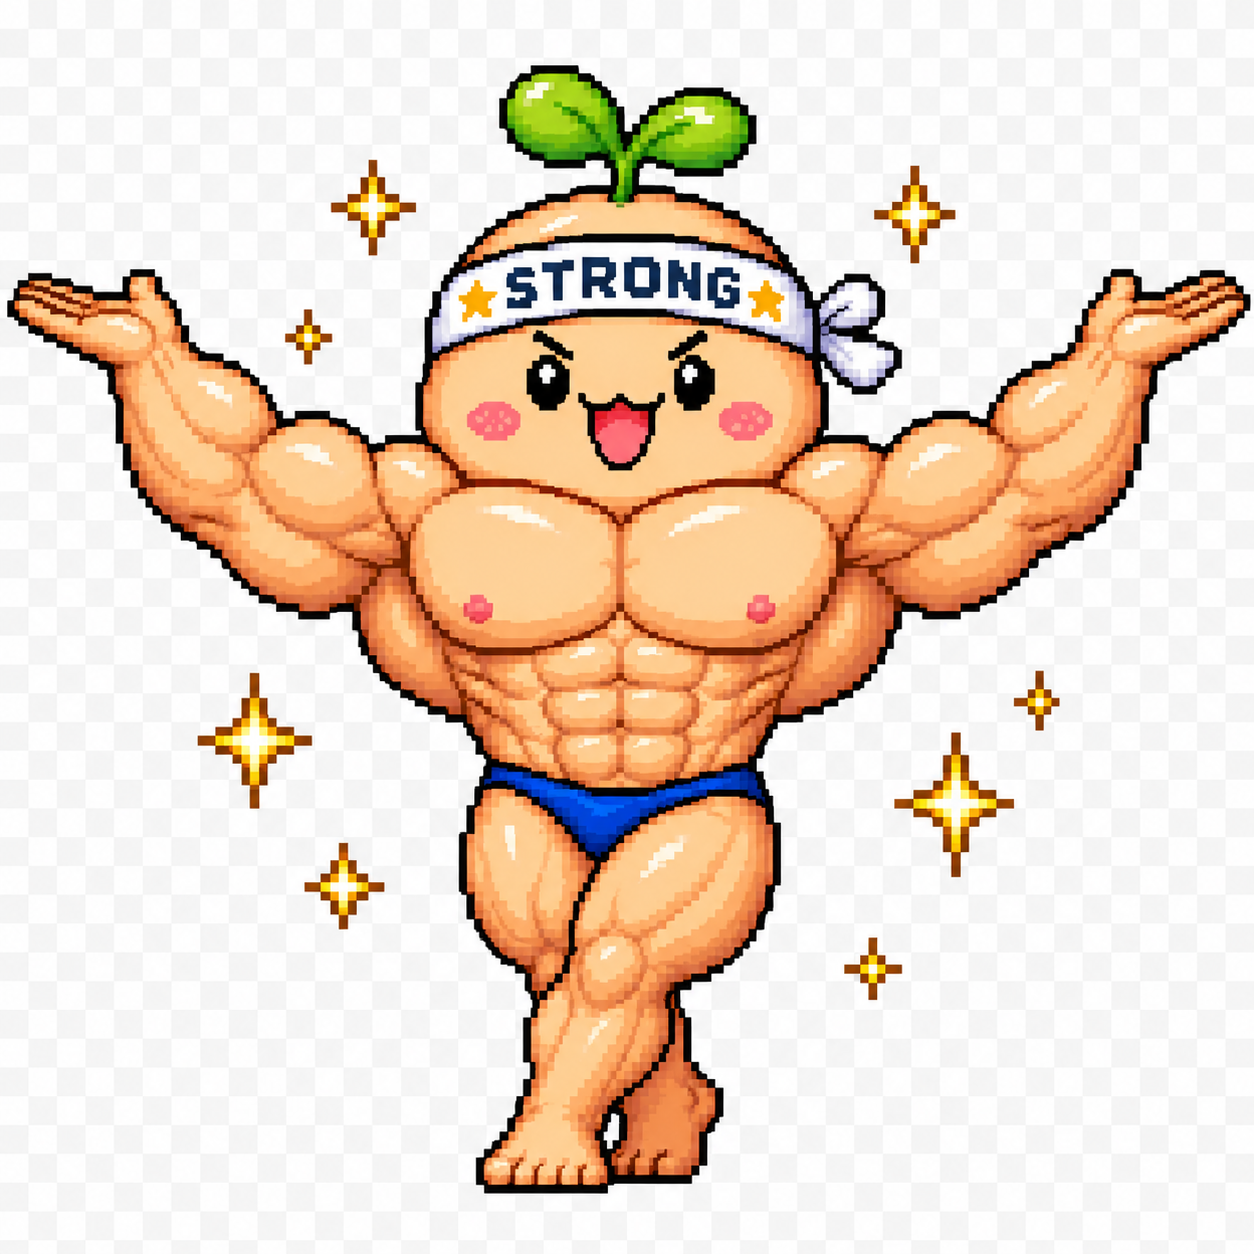
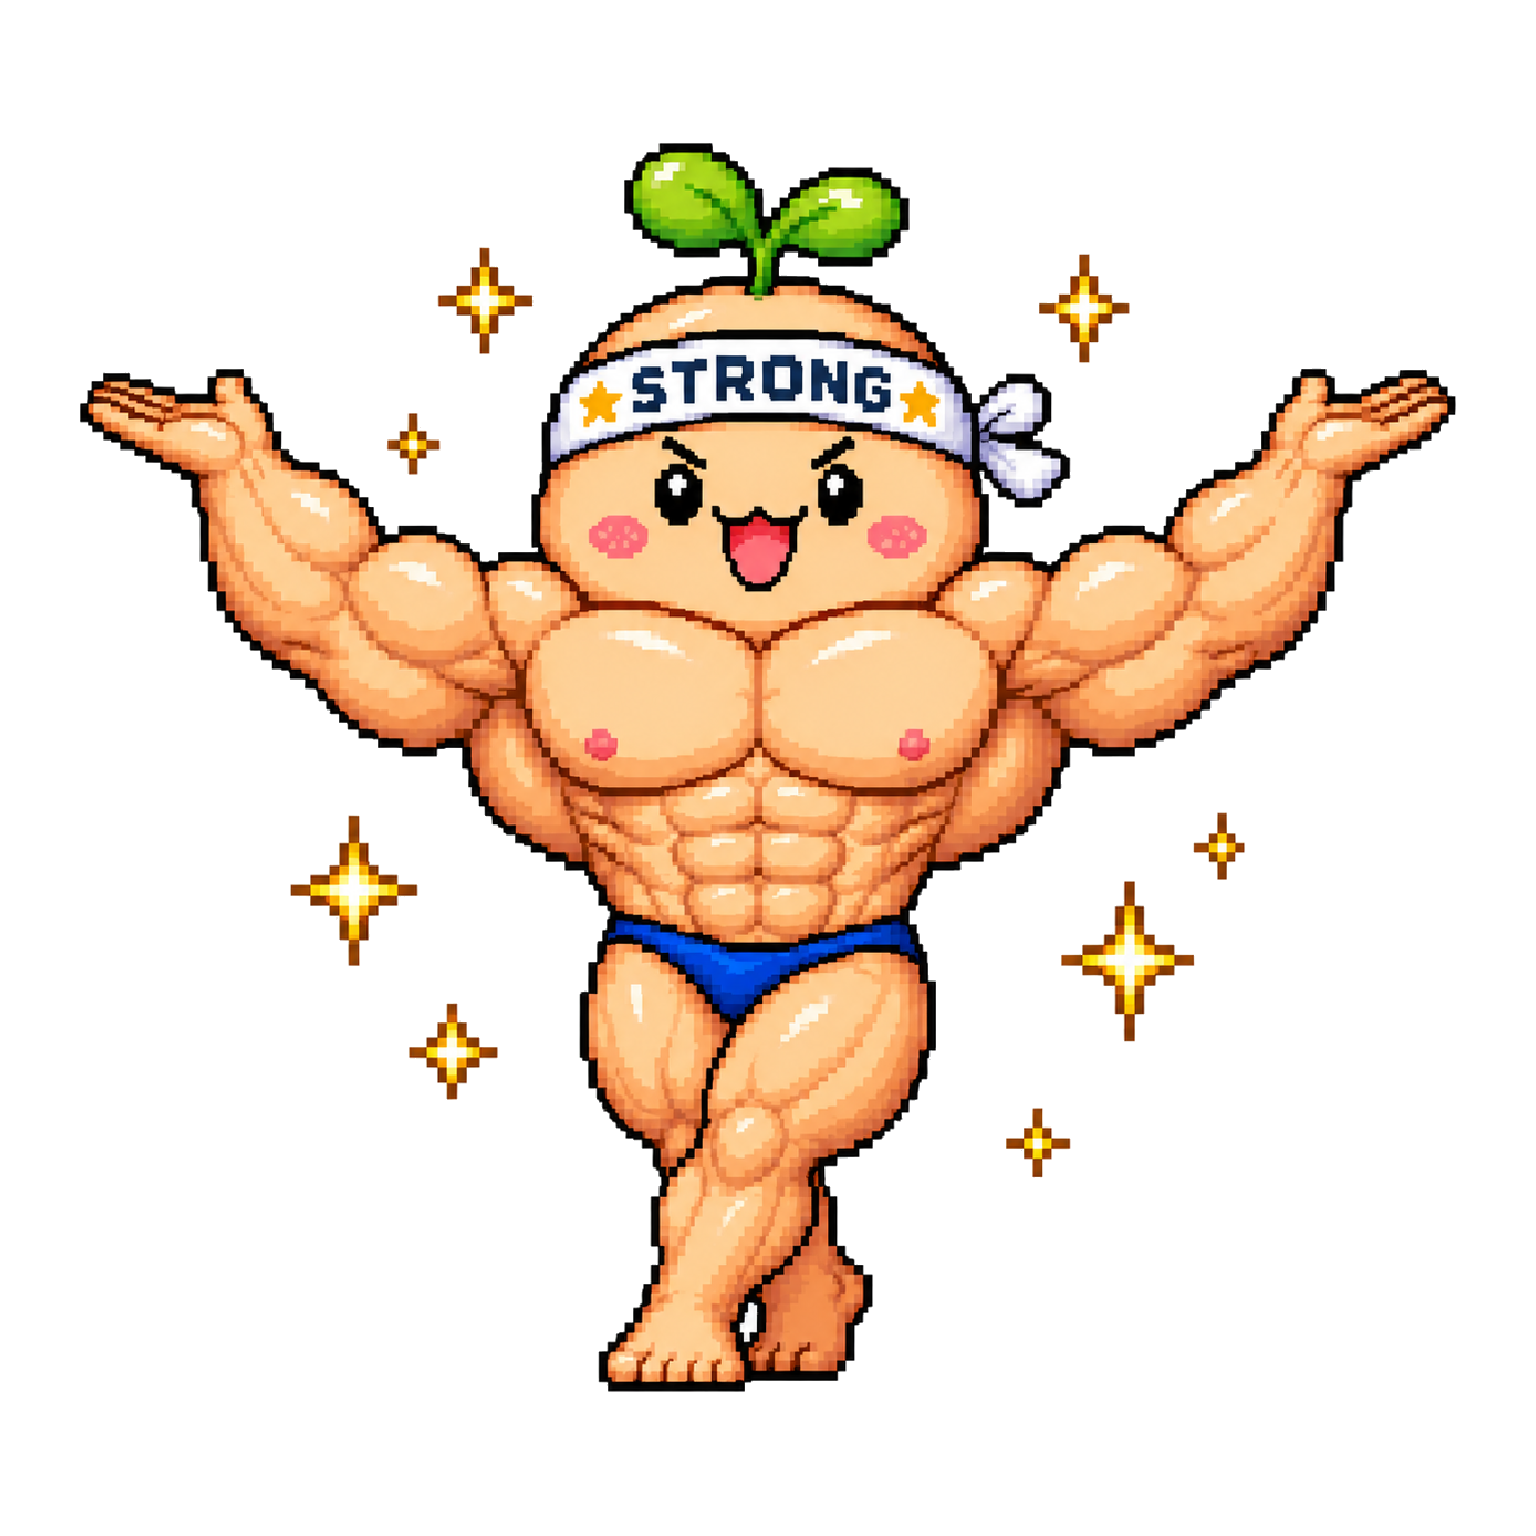
fix: normalize hardened pose assets and preserve aspect ratio

diff --git a/src/multiplayer/NetworkPlayerManager.ts b/src/multiplayer/NetworkPlayerManager.ts
@@ -1,3 +1,4 @@
+/* V1010553A_HARDENED_SQUARE_POSE_ASPECT: all Hardened pose assets are normalized to a 1:1 transparent canvas; display at 156x156 so no pose is stretched. */
 /* V1010553_HARDENED_5POSE_GAUGE_HIT_DRAIN_CLIENT */
 /* V1010552C_HARDENED_MUSCLE_SCALE_CALM: Hardened pose display footprint fixed to 104x156 (~1.3x the normal 80x120 Hider body). */
 /* V1010552_HIDER_HARDENED_VISUAL: Hardened pose replaces camouflage while active. */
@@ -2062,7 +2063,7 @@ export class NetworkPlayerManager {
     if (!active) { image?.destroy(); text?.destroy(); (container.getByName("network-hider-hardened-gauge") as Phaser.GameObjects.Graphics | null)?.destroy(); (container.getByName("network-hider-hardened-gauge-text") as Phaser.GameObjects.Text | null)?.destroy(); if (view.alive) { body?.setVisible(true); view.paintLayer?.texture.setVisible(true); } return; }
     body?.setVisible(false); view.paintLayer?.texture.setVisible(false);
     const key = `hider-hardened-pose-${Math.max(1, Math.min(5, Math.round(pose)))}`;
-    if (!image) { image = this.scene.add.image(0, 18, key).setOrigin(0.5, 0.75).setName("network-hider-hardened-pose").setDisplaySize(104,156); container.add(image); } else image.setTexture(key).setVisible(true);
+    if (!image) { image = this.scene.add.image(0, 18, key).setOrigin(0.5, 0.75).setName("network-hider-hardened-pose").setDisplaySize(156,156); container.add(image); } else image.setTexture(key).setVisible(true);
     if (!text) { text = this.scene.add.text(0,-72,label,{fontFamily:"Arial Black, sans-serif",fontSize:"15px",fontStyle:"bold",color:"#fff36d",stroke:"#000000",strokeThickness:5,align:"center"}).setOrigin(0.5,1).setName("network-hider-hardened-label"); container.add(text); }
     let gauge=container.getByName("network-hider-hardened-gauge") as Phaser.GameObjects.Graphics|null;if(!gauge){gauge=this.scene.add.graphics().setName("network-hider-hardened-gauge");container.add(gauge);}
     let gaugeText=container.getByName("network-hider-hardened-gauge-text") as Phaser.GameObjects.Text|null;if(!gaugeText){gaugeText=this.scene.add.text(0,82,"15.0s",{fontFamily:"Arial Black, sans-serif",fontSize:"10px",color:"#ffffff",stroke:"#000000",strokeThickness:3}).setOrigin(0.5).setName("network-hider-hardened-gauge-text");container.add(gaugeText);}
